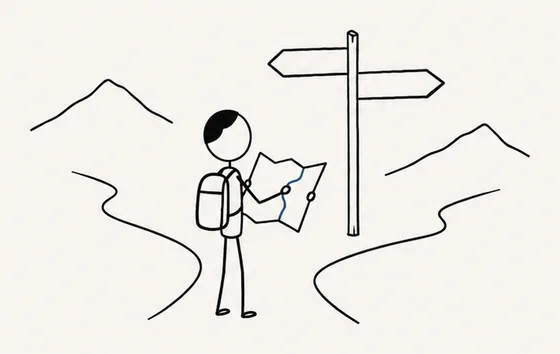
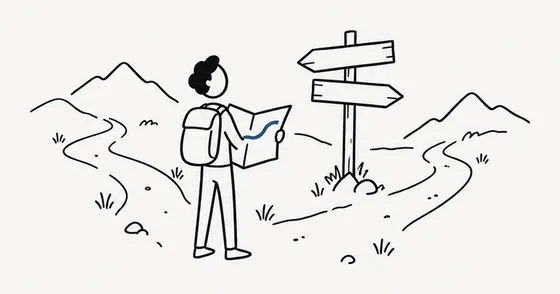
永續荖濃USR 網站 v15.14

diff --git a/404.html b/404.html
@@ -11,7 +11,7 @@
 <link href="https://fonts.googleapis.com/css2?family=Noto+Serif+TC:wght@400;700;900&family=Noto+Sans+TC:wght@400;500&display=swap" rel="stylesheet"><style>:root{--cork:#BE9163;--paper:#FFFFFF;--ink:#1E2A33;--ink-soft:#44515C;--seal:#1F4E79;--line:#D9DEE2;--y:#FBEFA4}*{margin:0;padding:0;box-sizing:border-box}body{font-family:'Noto Serif TC',serif;background:var(--cork);color:var(--ink);line-height:1.9;font-size:17px;min-height:100vh;display:flex;flex-direction:column;justify-content:center}.wrap{max-width:640px;margin:40px auto;padding:48px 32px;background:var(--paper);box-shadow:3px 6px 14px -4px rgba(40,24,8,.45);transform:rotate(-1deg)}@media(max-width:520px){.wrap{margin:24px 16px;padding:36px 22px}}.tag{display:inline-block;background:var(--seal);color:#fff;padding:6px 14px;transform:rotate(-2deg);font-family:'Noto Sans TC',sans-serif;font-size:14px;letter-spacing:.35em;margin-bottom:20px;font-weight:600}h1{font-size:clamp(30px,5vw,44px);font-weight:900;line-height:1.35;letter-spacing:.05em;margin-bottom:20px}p{color:var(--ink-soft);margin-bottom:36px;max-width:560px}.links{display:flex;flex-wrap:wrap;gap:12px 28px;font-family:'Noto Sans TC',sans-serif;font-size:14px;letter-spacing:.12em}.links a{color:var(--seal);text-decoration:none;border-bottom:1px solid var(--line);padding-bottom:2px}.links a:hover{border-color:var(--seal)}.logo{width:120px;height:auto;margin-top:64px;opacity:.85}picture{display:contents}.lost{width:220px;margin:0 0 28px auto;background:#fff;padding:10px 10px 8px;transform:rotate(3deg);box-shadow:3px 6px 14px -4px rgba(40,24,8,.45),1px 2px 3px rgba(40,24,8,.25);position:relative}.lost::after{content:"";position:absolute;left:50%;top:-14px;width:96px;height:26px;margin-left:-48px;background:rgba(220,232,244,.72);transform:rotate(-4deg)}.lost img{display:block;width:100%;height:auto;mix-blend-mode:multiply}@media(max-width:640px){.lost{width:min(180px,55vw)}}</style></head>
 <body>
 <div class="wrap">
-<figure class="lost" aria-hidden="true"><img src="/img/doodle-lost-map.webp" alt="" width="560" height="354"></figure>
+<figure class="lost" aria-hidden="true"><img src="/img/doodle-lost-map.webp" alt="" width="560" height="294"></figure>
 <p class="tag">永續荖濃USR</p>
 <h1>這一頁不在路上。</h1>
 <p>您要找的頁面不存在，或已經搬家。請從下列入口重新出發。</p>
